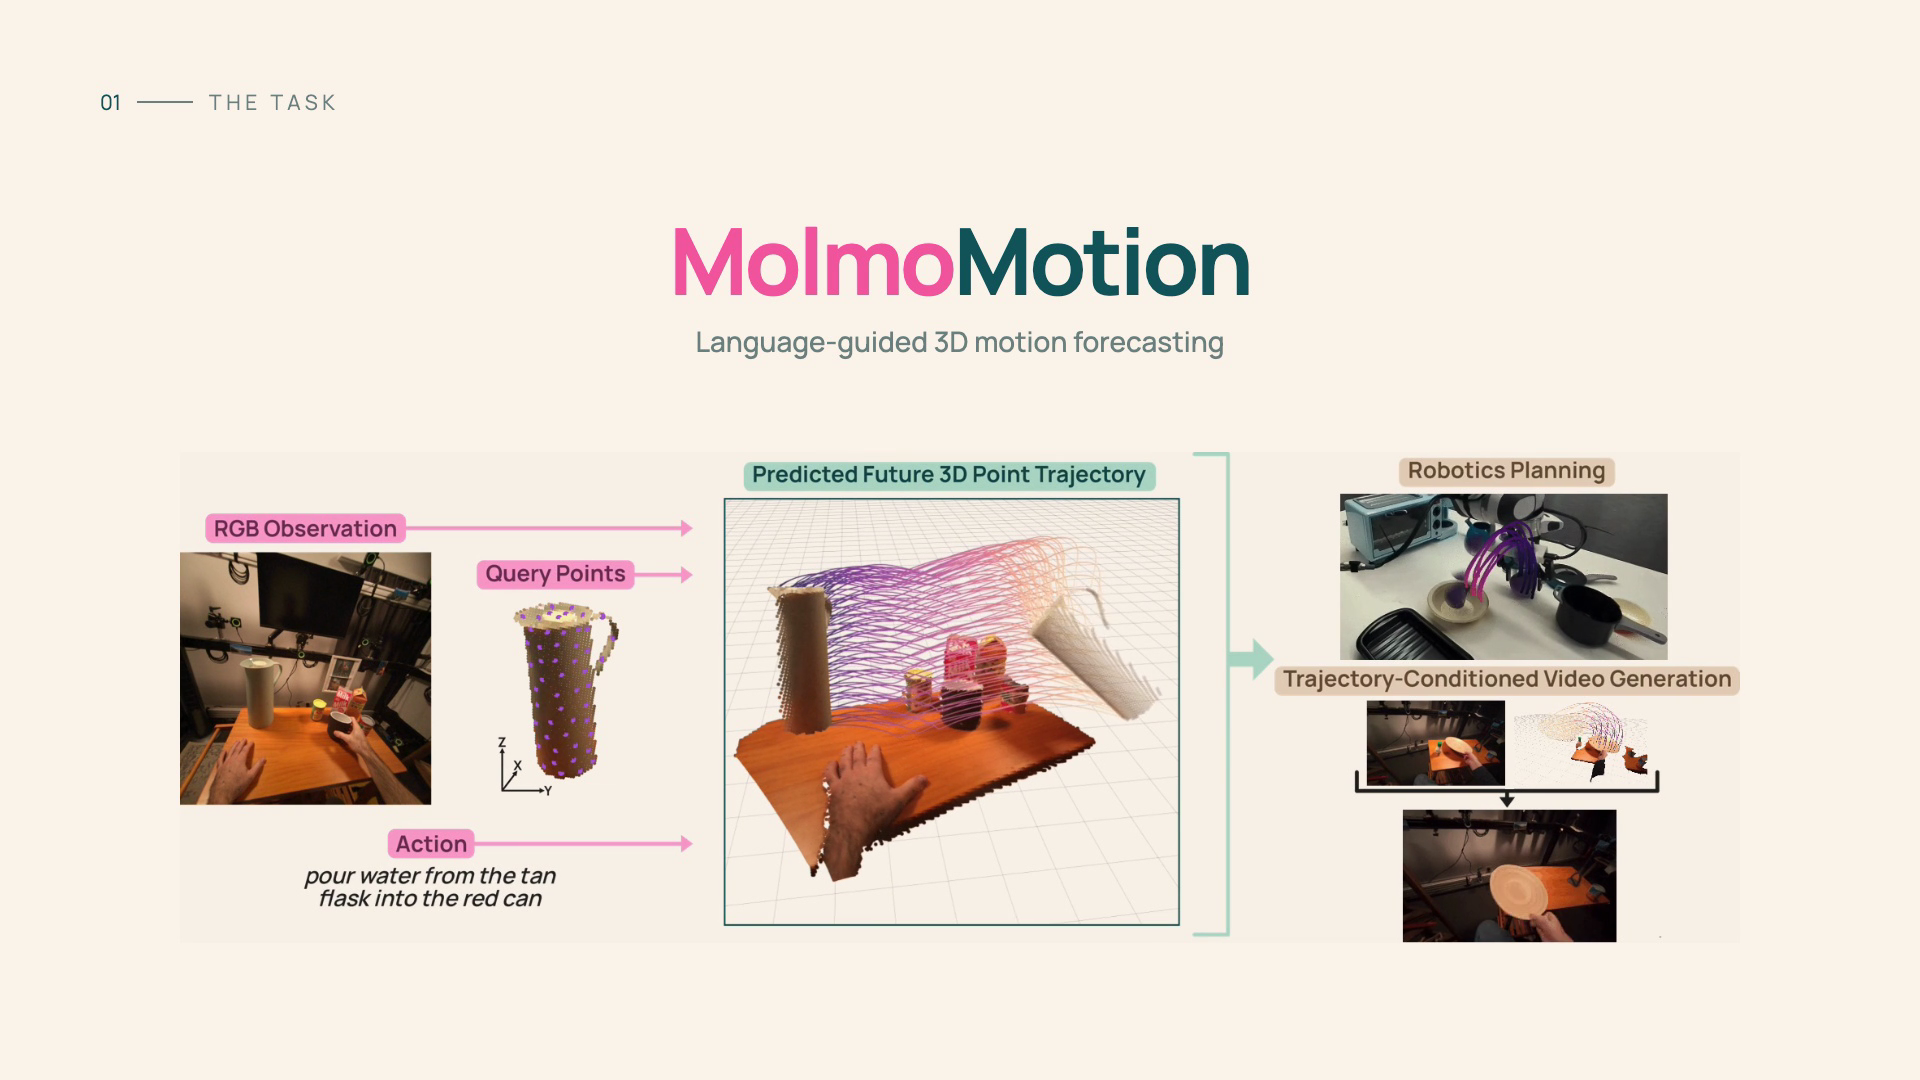
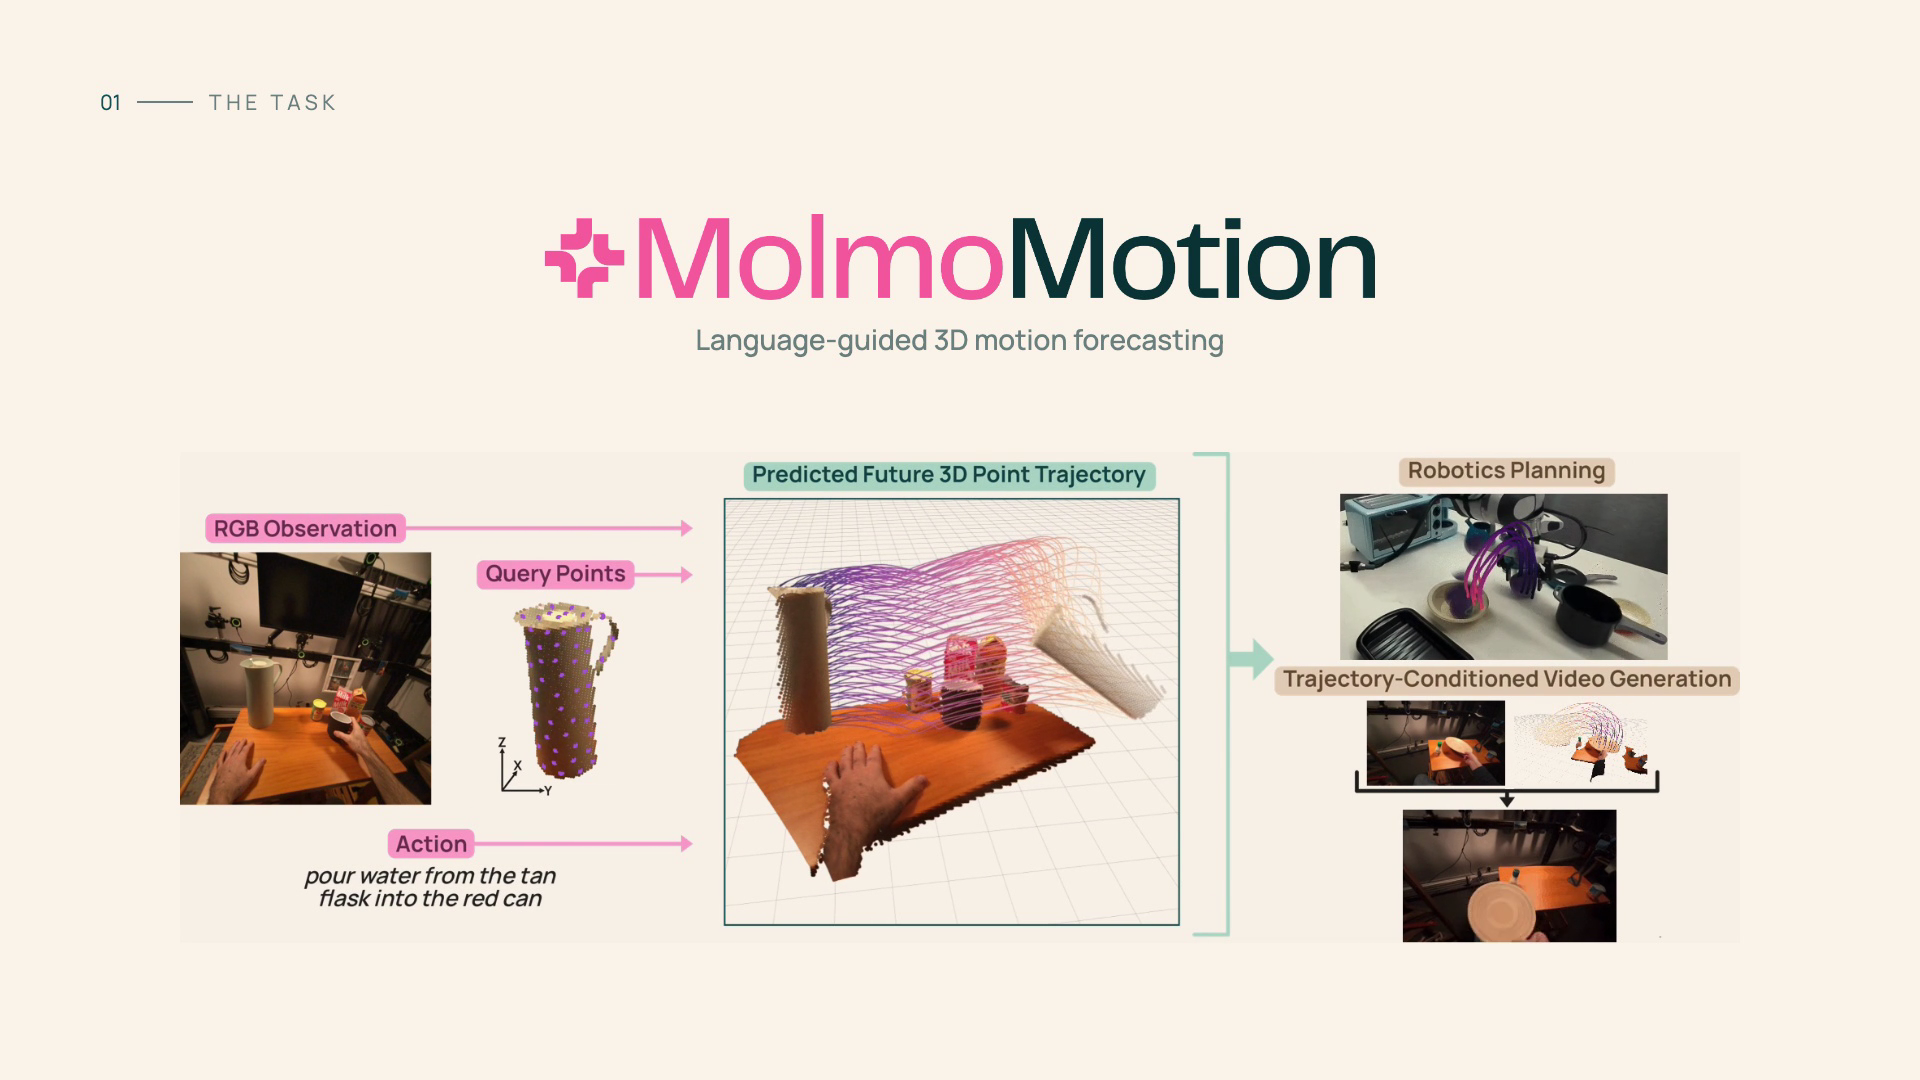
update the hyperlink and video

diff --git a/index.html b/index.html
@@ -52,7 +52,7 @@
       </p>
 
       <div class="actions">
-        <a href="#">Paper</a>
+        <a href="MolmoMotion.pdf" target="_blank" rel="noopener">Paper</a>
         <a href="#">arXiv</a>
         <a href="https://github.com/allenai/molmo-motion" target="_blank" rel="noopener">Code</a>
         <a href="https://huggingface.co/collections/allenai/molmomotion" target="_blank" rel="noopener">Models</a>
@@ -67,8 +67,8 @@
 
     <!-- Teaser (placeholder for the final teaser/overview video) -->
     <figure class="full">
-      <video controls playsinline preload="metadata" poster="images/teaser.png?v=2">
-        <source src="images/teaser.mp4?v=2" type="video/mp4" />
+      <video controls playsinline preload="metadata" poster="images/teaser.png?v=3">
+        <source src="images/teaser.mp4?v=3" type="video/mp4" />
       </video>
       <figcaption>
         Given 3D query points on an object, a short RGB history, and a language instruction,